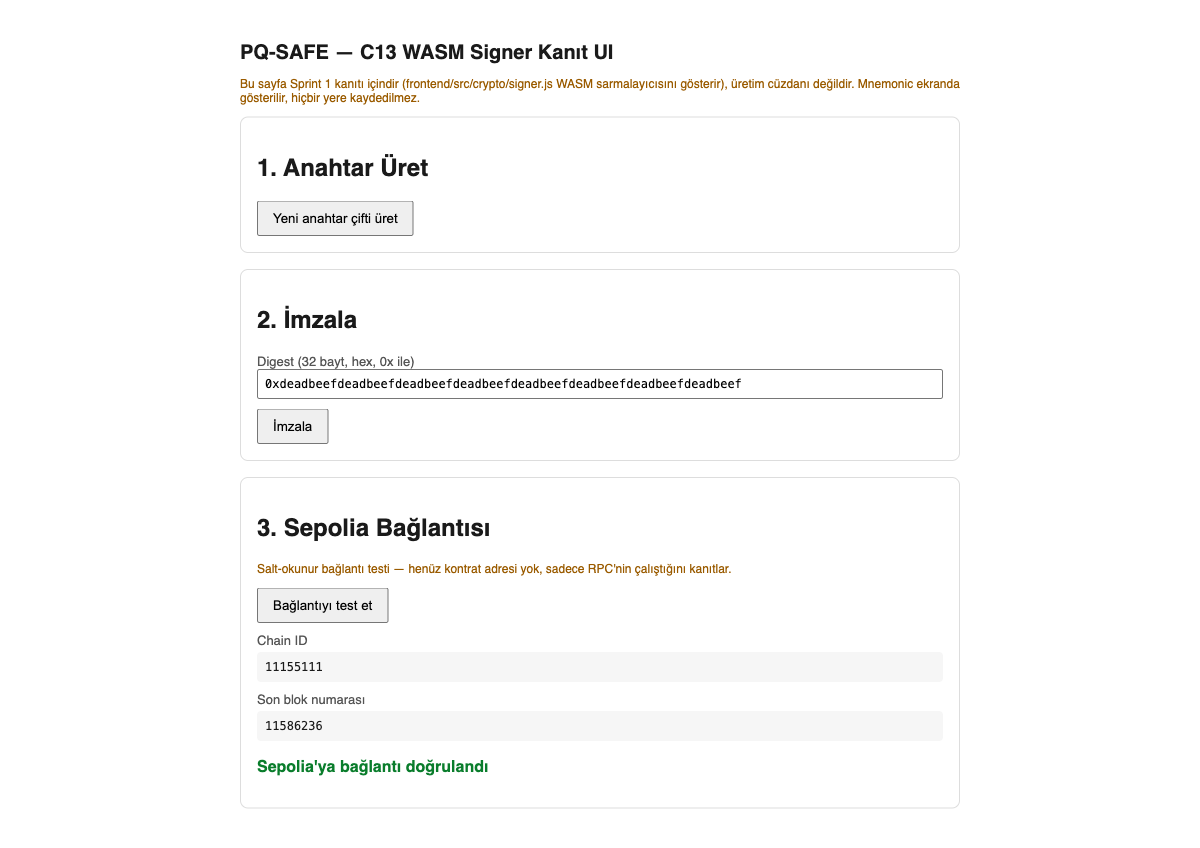
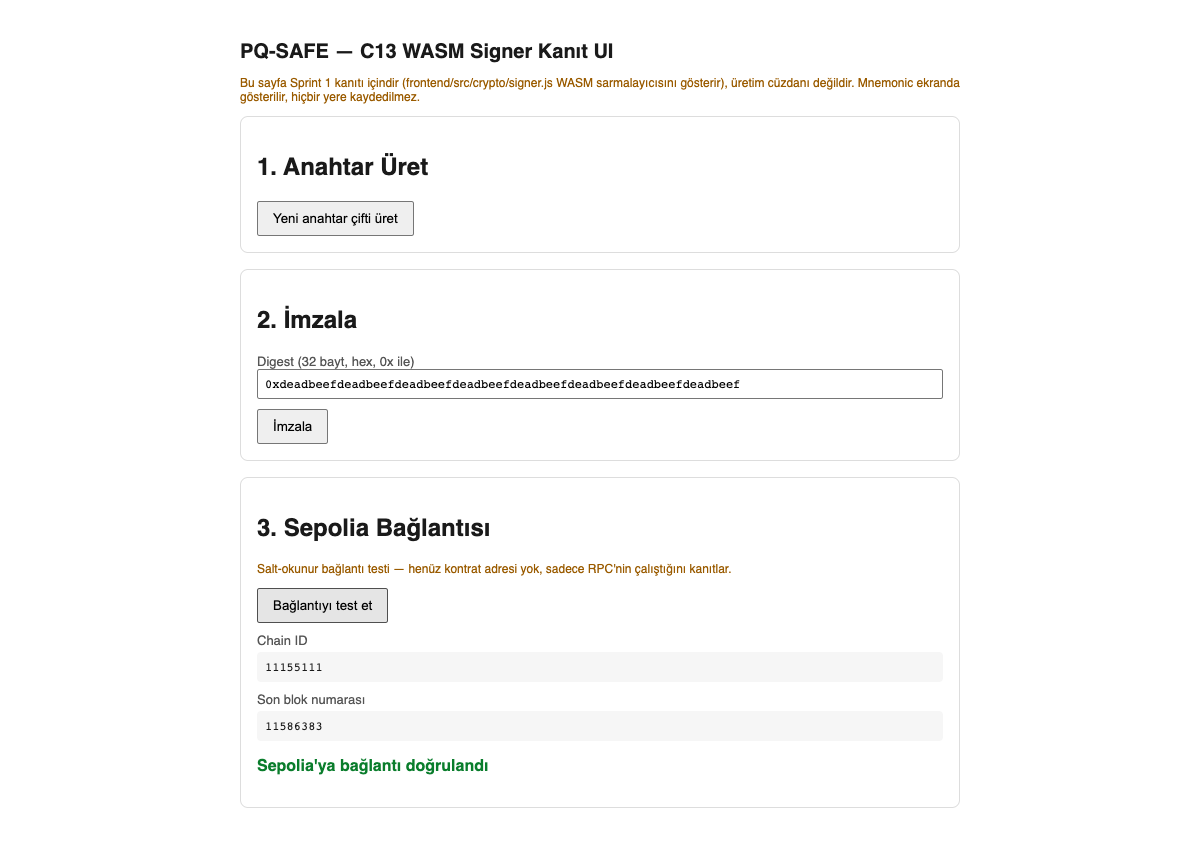
docs(evidence): Sepolia bağlantısı kanıt notu + yanlış-ağ doğrulaması

diff --git a/docs/evidence/crypto-tests/sprint3-sepolia-readonly-connection.md b/docs/evidence/crypto-tests/sprint3-sepolia-readonly-connection.md
@@ -1,0 +1,117 @@
+# Sprint 3 — Frontend Sepolia salt-okunur bağlantı kanıtı (tarayıcı)
+
+**Tarih:** 28 Ağustos 2026
+**Yazan:** Akif
+**Dosyalar:** `frontend/src/network/sepolia.js`, `frontend/index.html`,
+`frontend/src/main.js`, `frontend/.env.example`
+
+## Amaç
+
+`GOREV_SINIRLARI.md` Sprint 3 listesindeki Akif görevi "Frontend'i Sepolia'ya
+bağla"nın ilk parçası: frontend'in Sepolia'ya `ethers.JsonRpcProvider` ile
+salt-okunur bağlanabildiğini gerçek bir RPC çağrısıyla kanıtlamak.
+
+Bu adım **bilerek** kontrat adresi, tx gönderme ve signer içermiyor —
+Hakan'ın deploy çıktıları (`docs/tx-hashes.md`) henüz gelmedi. Kanıtlanan
+şey ağ katmanının çalıştığı ve **yanlış ağa bağlanmanın yakalandığı**.
+
+Yanlış ağ kontrolü kozmetik değil: `CLAUDE.md`'deki dondurulmuş digest
+formatı `DOMAIN_SEPARATOR`'ü `block.chainid` üzerinden türetiyor. Yanlış
+zincire bağlanmak yerelde hiçbir belirti vermeden on-chain reddedilen
+imzalar üretir. Bu yüzden üç yolun da doğrulanması gerekiyordu.
+
+## Ortam
+
+```
+node    v22.21.0
+vite    8.2.2 (dev server)
+ethers  6.17.0
+Chrome  (Playwright, channel: chrome) — macOS 15.6
+RPC     https://ethereum-sepolia-rpc.publicnode.com  (anahtarsız public uç nokta)
+        https://ethereum-rpc.publicnode.com          (yanlış-ağ testi için, mainnet)
+```
+
+Not: Infura/Alchemy anahtarı gerekmedi. Salt-okunur bağlantı testi için
+anahtarsız public uç nokta yeterli; tx gönderme adımında rate limit
+nedeniyle kendi anahtarımıza geçmek gerekebilir.
+
+## Test akışı ve çıktı
+
+Her senaryoda `frontend/.env` ayarlandı, dev server yeniden başlatıldı,
+sayfa açıldı ve "3. Sepolia Bağlantısı" bölümündeki "Bağlantıyı test et"
+butonuna tıklandı. Metinler DOM'dan birebir alındı.
+
+### A) Mutlu yol — Sepolia RPC
+
+```
+Chain ID          : 11155111
+Son blok numarası : 11586383
+Mesaj             : Sepolia'ya bağlantı doğrulandı
+```
+
+Gösterilen `Chain ID` sabit değil, RPC'nin gerçekten döndürdüğü değer —
+`checkSepoliaConnection()` bunu bilerek `network.chainId`'den taşıyor ki
+ekrandaki sayı bağlantının kanıtı olsun.
+
+Ekran görüntüsü: `docs/evidence/screenshots/sprint3-sepolia-connection.png`
+
+### B) Yanlış ağ — mainnet RPC (chainId 1)
+
+```
+Hata: Sepolia (11155111) bekleniyordu, RPC chainId 1 döndürdü — digest
+formatı chainId'e bağlı, yanlış ağda üretilen imzalar geçersiz olur.
+```
+
+Ekran görüntüsü: `docs/evidence/screenshots/sprint3-sepolia-wrong-network.png`
+
+### C) Env var tanımsız — `.env` yok
+
+```
+Hata: VITE_SEPOLIA_RPC_URL tanımlı değil — frontend/.env dosyasına ekleyin
+(bkz. .env.example)
+```
+
+Sessiz fallback yok: RPC URL yoksa açık hata veriliyor, varsayılan bir
+uç noktaya düşülmüyor. Kontrol `!rpcUrl.trim()` olduğu için boş string de
+(yani `cp .env.example .env` deyip doldurmayı unutmak) bu mesaja düşüyor,
+ethers'ın anlaşılmaz URL hatasına değil.
+
+Ekran görüntüsü: `docs/evidence/screenshots/sprint3-sepolia-error-state.png`
+
+## Tasarım kararı: doğrulanmamış provider dışa açılmıyor
+
+`sepolia.js` yalnızca `getSepoliaProvider()` ve `checkSepoliaConnection()`
+export ediyor. Provider'ı kuran `createUncheckedProvider()` modüle özel
+bırakıldı, çünkü dışa açık olsaydı sıradaki adımda
+`new Contract(addr, abi, getProvider())` yazmak en doğal şey olurdu ve
+chainId kontrolünü sessizce atlardı. `getSepoliaProvider()` ağı bir kez
+doğrulayıp sonucu önbelleğe alıyor; önbellek sadece başarıda doldurulduğu
+için geçici bir RPC hatası bağlantıyı kalıcı olarak bozmuyor.
+
+`getNetwork()` çağrısının üstünde bir uyarı yorumu var: provider'a
+`staticNetwork: true` eklenirse ethers ağı RPC'ye sormadan yapılandırılmış
+değeri döndürür ve chainId kontrolü hiç başarısız olamayan bir totolojiye
+dönüşür.
+
+## Otomatik test neden yok
+
+Spec'te bilinçli karar (`docs/superpowers/specs/2026-08-26-sepolia-readonly-connection-design.md`,
+"Test / doğrulama"): bu adımın tek işi gerçek bir ağ çağrısının çalıştığını
+göstermek, mock'lanmış bir provider bunu kanıtlamaz. Doğrulama dev server
+üzerinden çalıştırılabilir ve yukarıda üç yolun da çıktısı kayıtlı.
+Kontrat okuma katmanı geldiğinde digest/nonce mantığı için otomatik test
+gerekecek — o ayrı bir görev.
+
+## Kapsam dışı / henüz yapılmadı
+
+- Kontrat adresleri, ABI bağlama, kontrat state okuma — Hakan'ın deploy'u bekleniyor.
+- Tx gönderme, signer/MetaMask entegrasyonu.
+- Uçtan uca akış ve ekran kaydı (Sprint 3'ün kalan Akif maddesi).
+- Bu sayfa hâlâ bir kanıt/demo arayüzü, üretim cüzdan UI'ı değil.
+
+## Sonuç
+
+Frontend Sepolia'ya salt-okunur bağlanıyor, doğru chainId ve güncel blok
+numarasını okuyor; yanlış ağ ve eksik yapılandırma senaryolarının ikisi de
+açık, açıklayıcı hatayla yakalanıyor. Sprint 3'ün "Frontend'i Sepolia'ya
+bağla" maddesinin ağ katmanı parçası tamamlandı.
